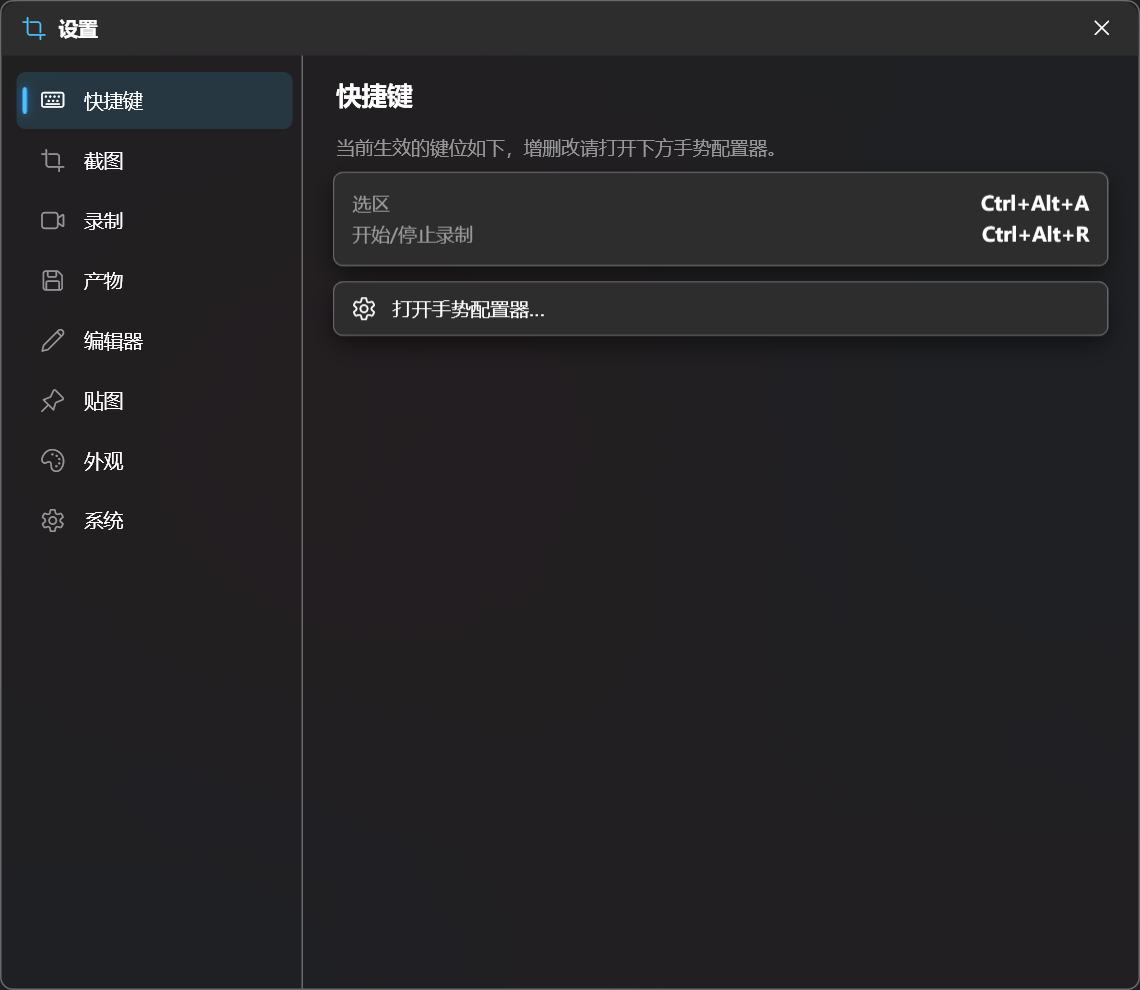
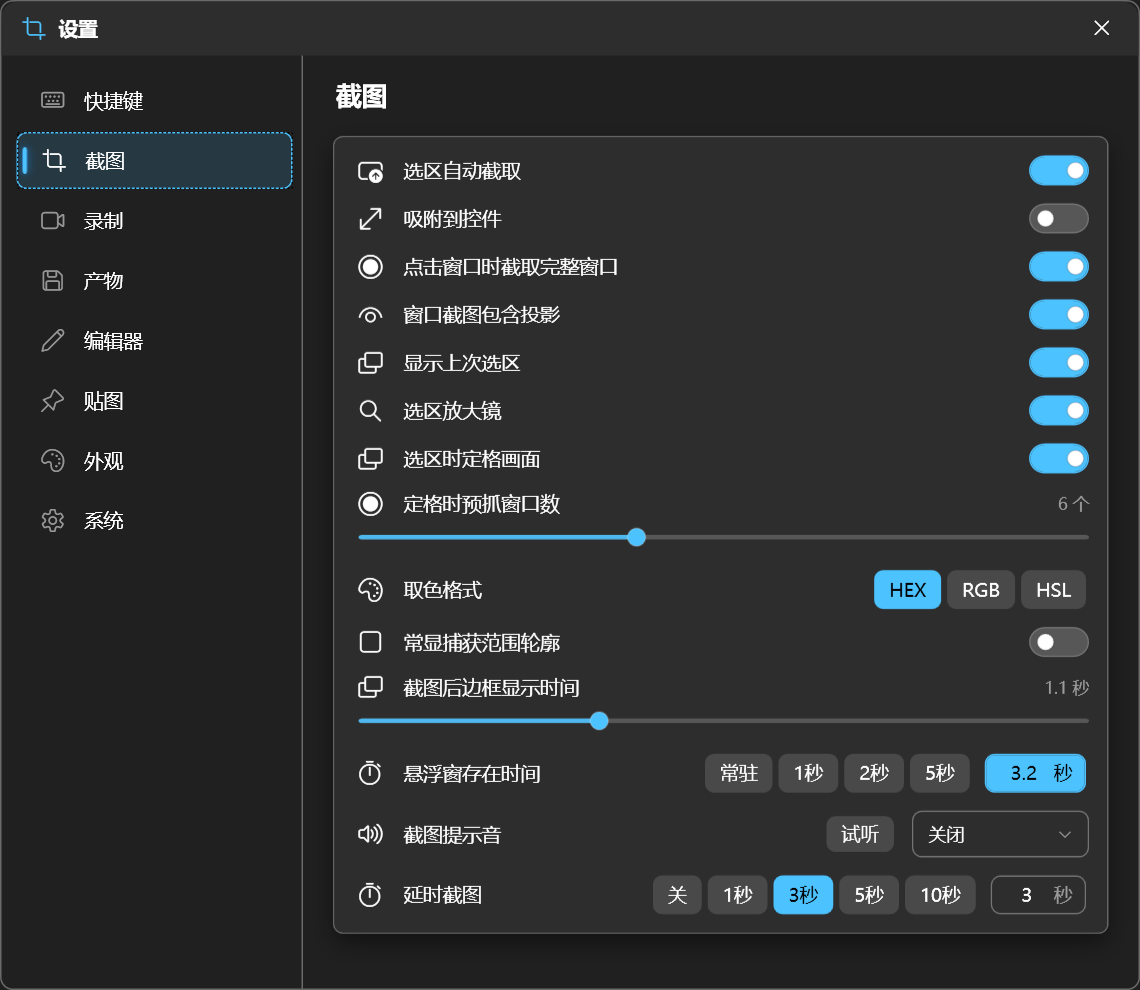
设置页截图换成开关密集的「截图」分组
快捷键分组只有两行键位，整窗大片空白，是四张图里最空的一张。
用键盘导航（Tab 进导航列表 + 方向键 + 空格）切到截图分组后重拍：
七个开关、两个滑杆、三组分段选择，密度和其他三张对得上。
alt 同步改成实际画面内容。

diff --git a/site/index.html b/site/index.html
@@ -234,7 +234,7 @@
         <div class="panel" id="p-set" role="tabpanel">
           <figure class="shot">
             <img loading="lazy" decoding="async" src="assets/shots/settings.png" width="1140" height="990"
-                 alt="FrameCapture 设置窗口：左侧八个分组，右侧是当前生效的快捷键">
+                 alt="FrameCapture 设置窗口：左侧八个分组，右侧是截图页的开关、分段选择与滑杆">
           </figure>
           <div class="panel__copy">
             <h3>八组设置，改完即生效</h3>
